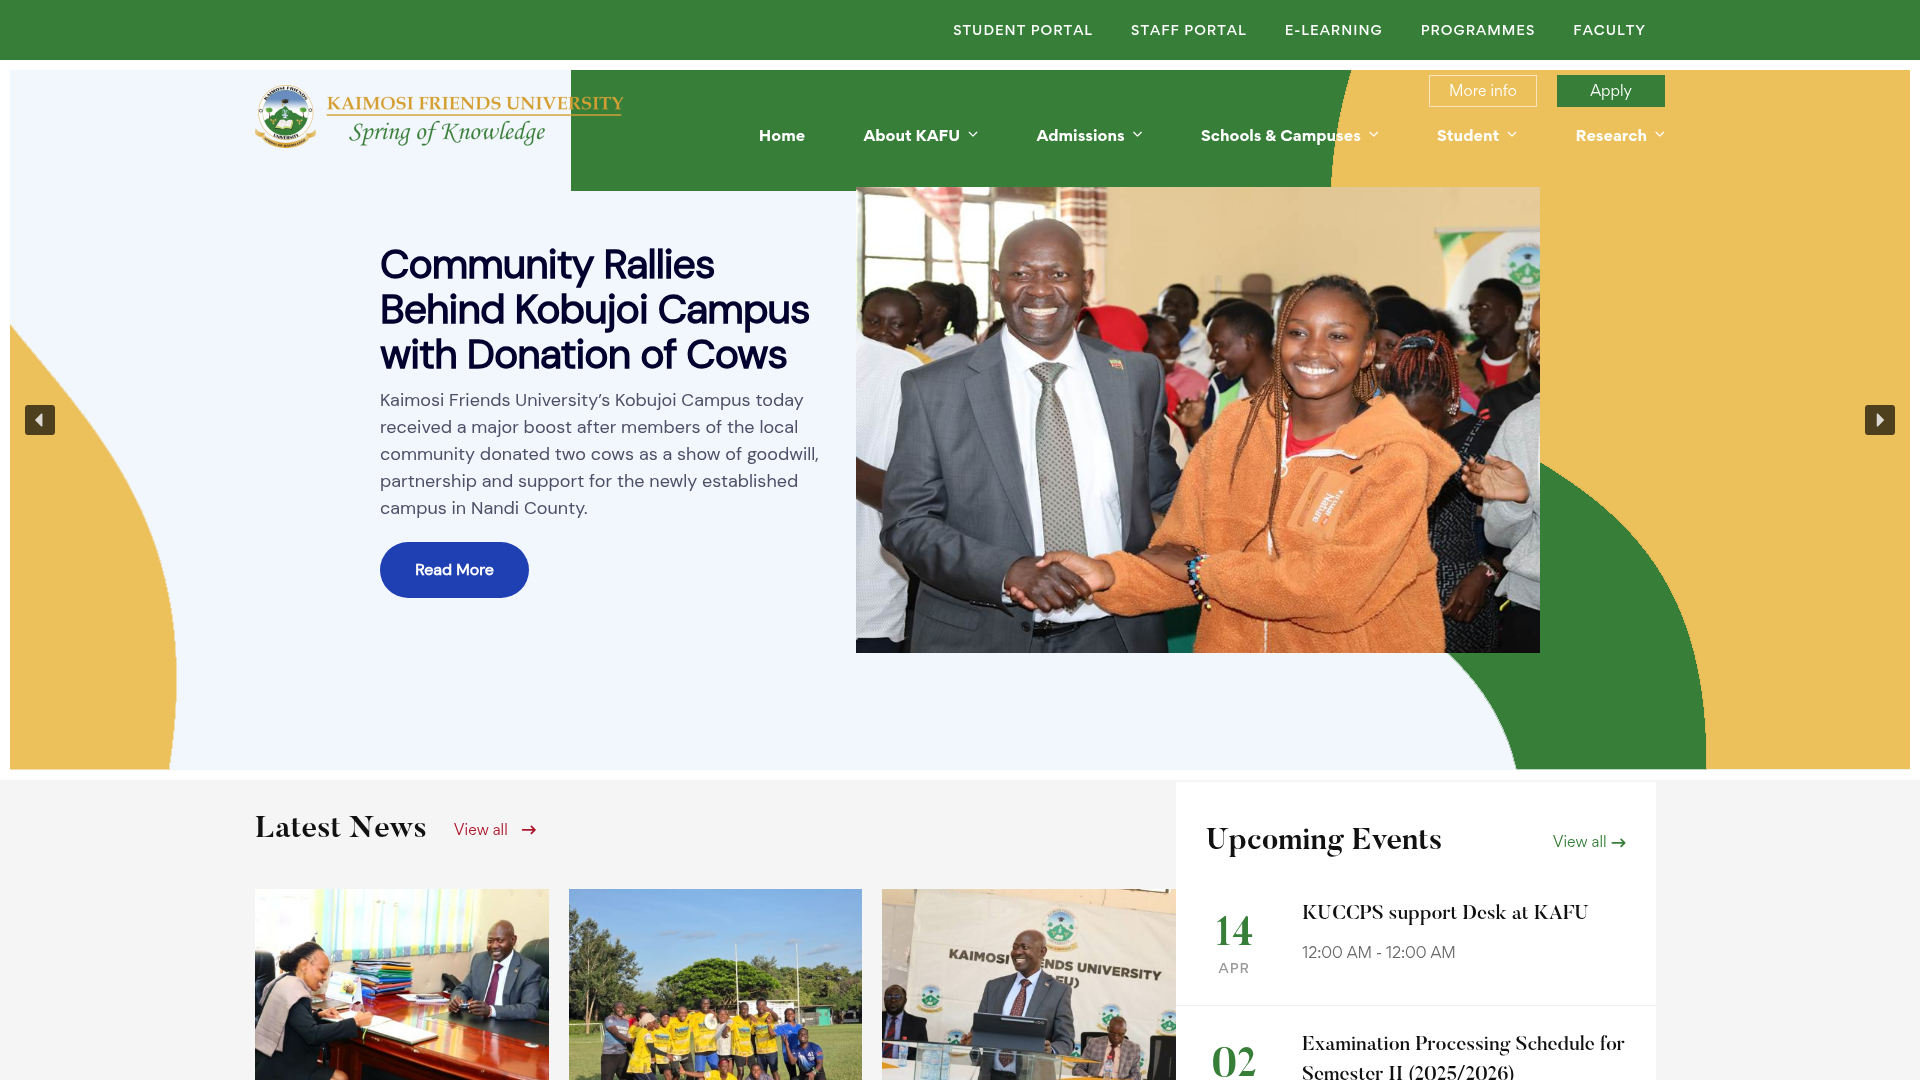
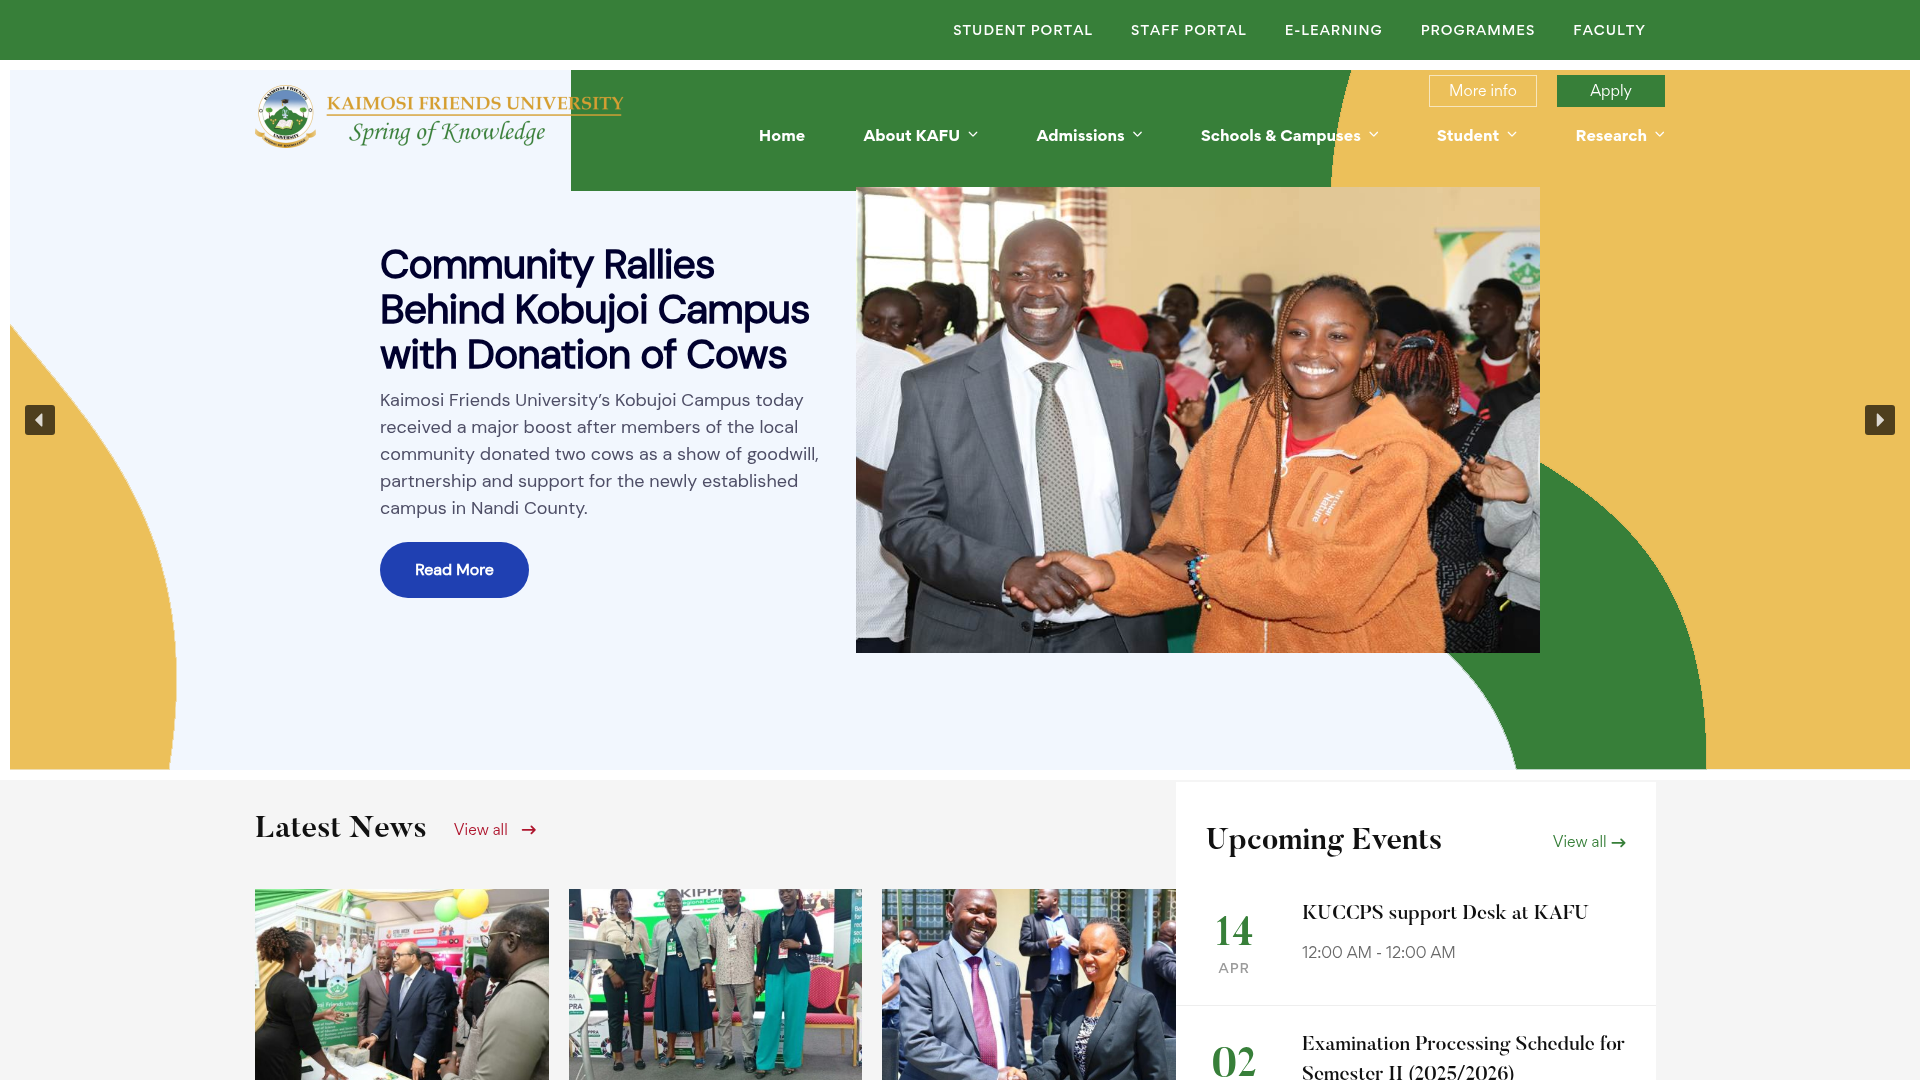
Update website carousel with recent campus photos
Modify `home.tsx` to replace stale hero carousel images with newer ones fetched from `kafu.ac.ke`, updating image paths and associated metadata for slides 0, 2, 3, and 5. Includes download of new assets: `image-108.jpeg`, `image-110.jpeg`, `image-113.jpeg`, `image-114.jpeg`, `image-115.jpeg`, and `img6424.jpg`.

Replit-Commit-Author: Agent
Replit-Commit-Session-Id: 8b95264a-994a-45e5-a740-087cfb7df2fc
Replit-Commit-Checkpoint-Type: full_checkpoint
Replit-Commit-Event-Id: 9b299e0c-22fe-4699-b8a7-15a920169cfb
Replit-Commit-Screenshot-Url: https://storage.googleapis.com/screenshot-production-us-central1/4e757f87-373d-49df-97d8-ed1172b29a73/8b95264a-994a-45e5-a740-087cfb7df2fc/IEn1z9q
Replit-Helium-Checkpoint-Created: true

Changed region(s): [[0.125, 0.825, 0.625, 1.0]]

diff --git a/artifacts/kafu-foundation/src/pages/home.tsx b/artifacts/kafu-foundation/src/pages/home.tsx
@@ -29,7 +29,7 @@ import {
 // ─── Hero Carousel ─────────────────────────────────────────────────────────────
 const SLIDES = [
   {
-    image: "/imgs/campus-main.jpg",
+    image: "/imgs/whatsapp-may2026.jpeg",
     badge: "Est. 2014 · Kaimosi, Western Kenya · Quaker Heritage",
     headline: "Spring of",
     accent: "Knowledge",
@@ -49,7 +49,7 @@ const SLIDES = [
     testid: "hero-slide-1",
   },
   {
-    image: "/imgs/image-94.jpeg",
+    image: "/imgs/image-115.jpeg",
     badge: "Modern Infrastructure · Kaimosi Highlands",
     headline: "Built for",
     accent: "Excellence",
@@ -59,13 +59,13 @@ const SLIDES = [
     testid: "hero-slide-2",
   },
   {
-    image: "/imgs/image-93.jpeg",
-    badge: "Research · Innovation · Community Impact",
-    headline: "Advancing",
-    accent: "Research",
-    body: "KAFU's research centres are driving solutions in health, environment, and development across Kenya and beyond — supported by national and international partnerships.",
-    cta1: { label: "Explore Research", href: "/research", external: false },
-    cta2: { label: "International Programmes", href: "/international", external: false },
+    image: "/imgs/image-113.jpeg",
+    badge: "Community Engagement · Kobujoi Campus · Nandi County",
+    headline: "Rooted in",
+    accent: "Community",
+    body: "KAFU's Kobujoi Campus is forging strong bonds with local communities — reflecting the Quaker spirit of service, partnership, and shared growth across Western Kenya.",
+    cta1: { label: "About KAFU", href: "/about", external: false },
+    cta2: { label: "Our Campuses", href: "/campuses", external: false },
     testid: "hero-slide-3",
   },
   {
@@ -79,13 +79,13 @@ const SLIDES = [
     testid: "hero-slide-4",
   },
   {
-    image: "/imgs/vc-lecture.jpg",
-    badge: "Strong Leadership · Visionary Direction · Academic Excellence",
-    headline: "Led by",
-    accent: "Vision",
-    body: "Under the leadership of Vice-Chancellor Prof. Peter Mwita, KAFU is transforming into a globally competitive university — driven by innovation, integrity, and a commitment to the people of Kenya.",
-    cta1: { label: "Meet Our Team", href: "/staff", external: false },
-    cta2: { label: "About KAFU", href: "/about", external: false },
+    image: "/imgs/img6424.jpg",
+    badge: "Research · Innovation · Community Impact",
+    headline: "Advancing",
+    accent: "Research",
+    body: "KAFU's research centres are driving solutions in health, environment, and development across Kenya and beyond — supported by national and international partnerships.",
+    cta1: { label: "Explore Research", href: "/research", external: false },
+    cta2: { label: "International Programmes", href: "/international", external: false },
     testid: "hero-slide-5",
   },
   {
